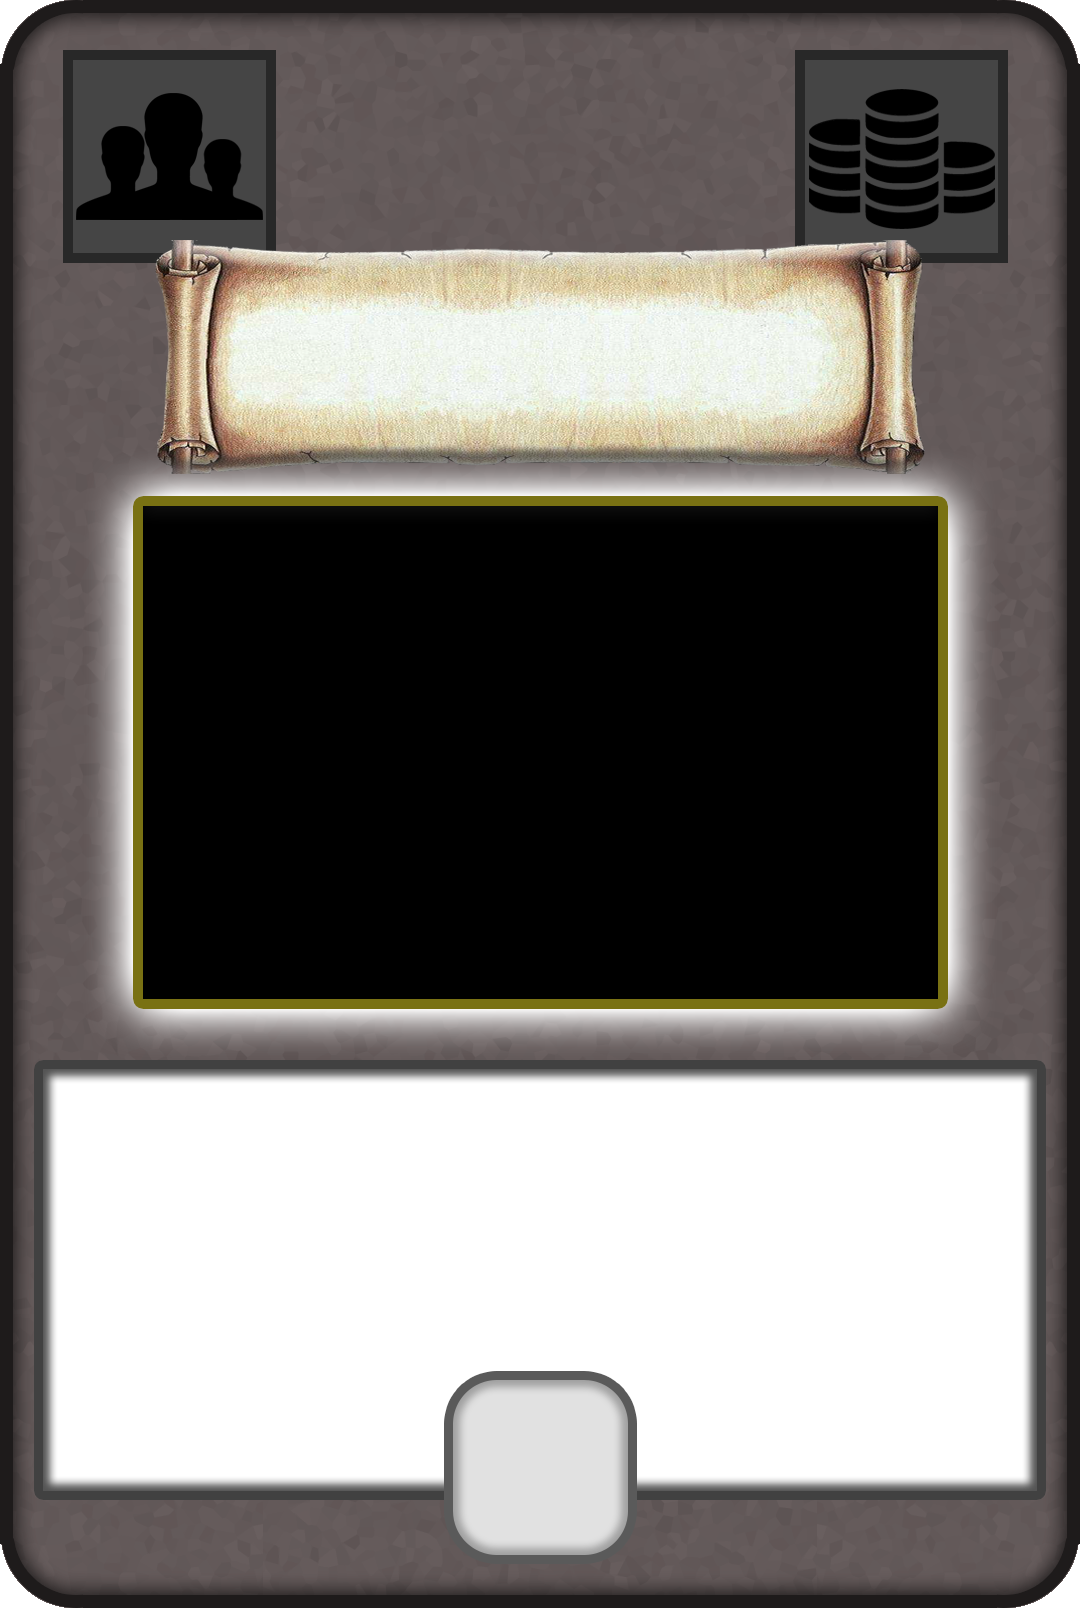
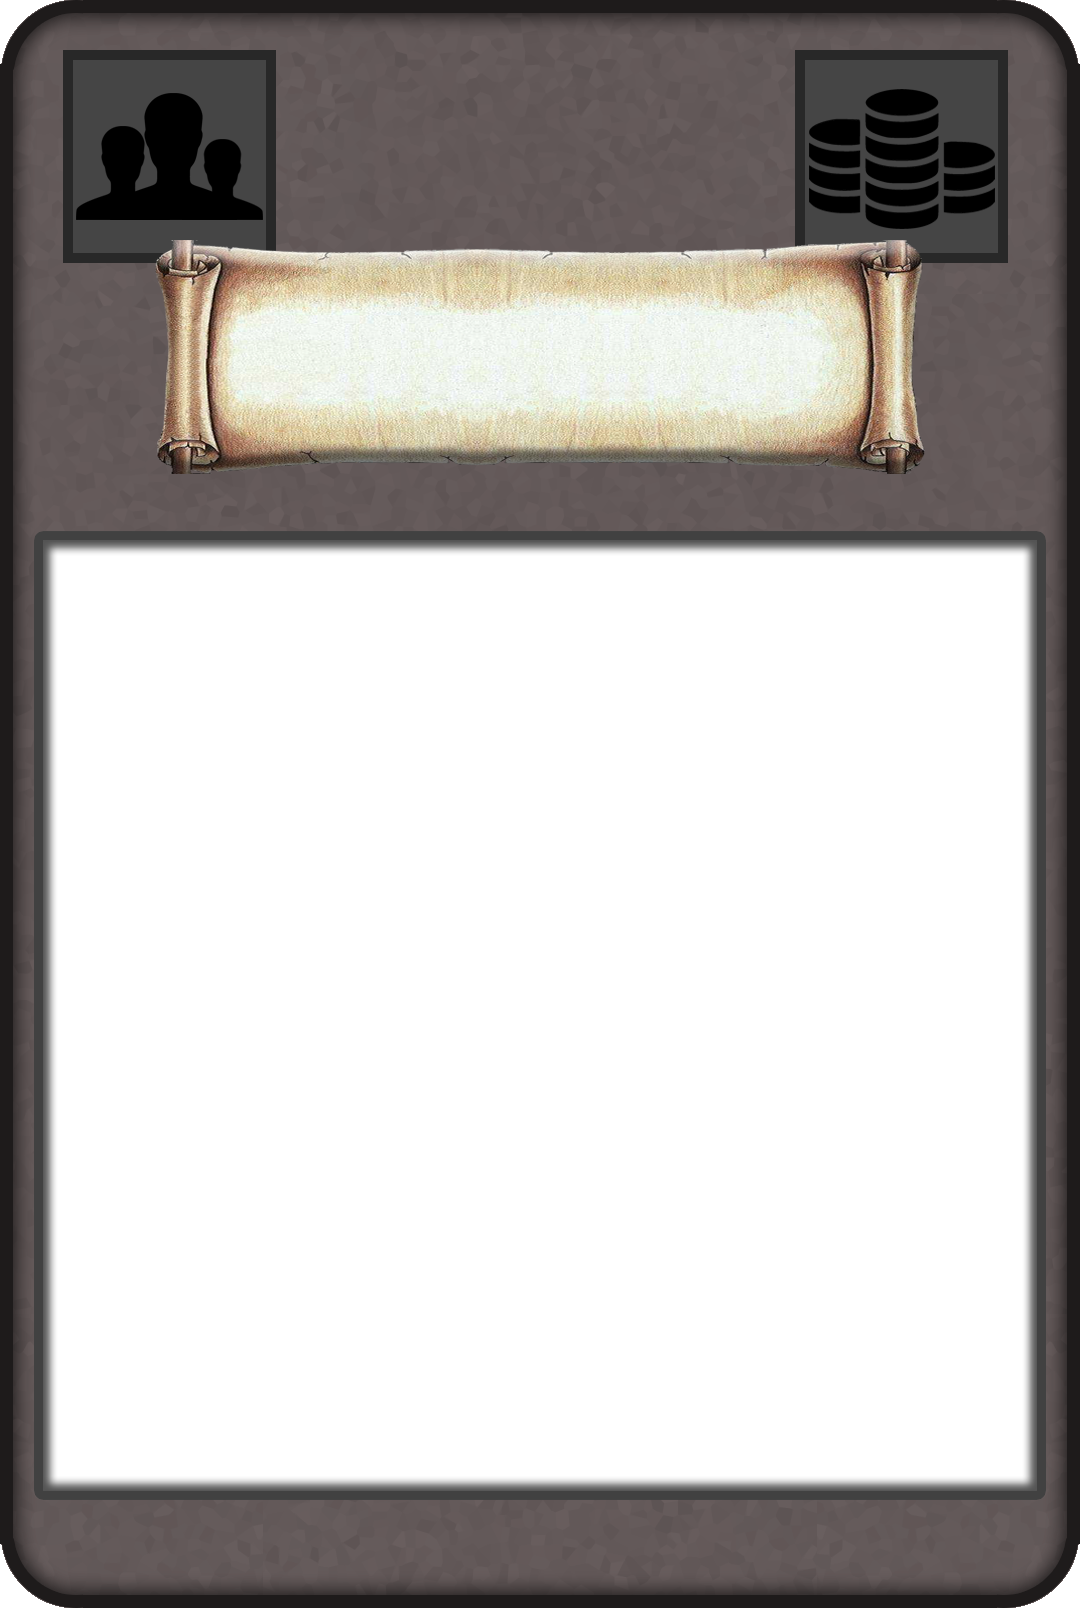
Las factory y selected card se ven poya

diff --git a/core/src/com/mygdx/game/go/FactoryCard.java b/core/src/com/mygdx/game/go/FactoryCard.java
@@ -67,10 +67,9 @@ public class FactoryCard extends GameObject {
         //batch.draw(Assets.getInstance().getTexture(tex), imageBounds.x, imageBounds.y, imageBounds.width, imageBounds.height);
 
         //text area
-        batch.draw(Assets.getInstance().black, textBounds.x, textBounds.y, textBounds.width, textBounds.height);
-        batch.draw(Assets.getInstance().black, textBounds.x, textBounds.y+textBounds.height*1.8f, textBounds.width, textBounds.height/4);
-        Assets.getInstance().GameFont.draw(batch, name, textBounds.x, textBounds.y + textBounds.height * 2f, textBounds.width, Align.center, true);
-        Assets.getInstance().GameFont.draw(batch, description, textBounds.x, textBounds.y + textBounds.height * 0.95f, textBounds.width, Align.center, true);
+        Assets.getInstance().GameFont.setColor(Color.BLACK);
+        Assets.getInstance().GameFont.draw(batch, name, textBounds.x, textBounds.y + textBounds.height * 2.13f, textBounds.width, Align.center, true);
+        Assets.getInstance().GameFont.draw(batch, description, textBounds.x, textBounds.y + textBounds.height * 1.65f, textBounds.width, Align.center, true);
 
     }
 

diff --git a/core/src/com/mygdx/game/go/SelectedCard.java b/core/src/com/mygdx/game/go/SelectedCard.java
@@ -73,8 +73,8 @@ public class SelectedCard extends GameObject {
         //batch.draw(Assets.getInstance().black, textBounds.x, textBounds.y+textBounds.height*1.8f, textBounds.width, textBounds.height/4);
         //batch.setColor(Color.BLACK);
         Assets.getInstance().GameFont.setColor(Color.BLACK);
-        Assets.getInstance().GameFont.draw(batch, name, textBounds.x, textBounds.y + textBounds.height * 2f, textBounds.width, Align.center, true);
-        Assets.getInstance().GameFont.draw(batch, description, textBounds.x, textBounds.y + textBounds.height * 0.95f, textBounds.width, Align.center, true);
+        Assets.getInstance().GameFont.draw(batch, name, textBounds.x, textBounds.y + textBounds.height * 2.13f, textBounds.width, Align.center, true);
+        Assets.getInstance().GameFont.draw(batch, description, textBounds.x, textBounds.y + textBounds.height * 1.65f, textBounds.width, Align.center, true);
 
     }
 
